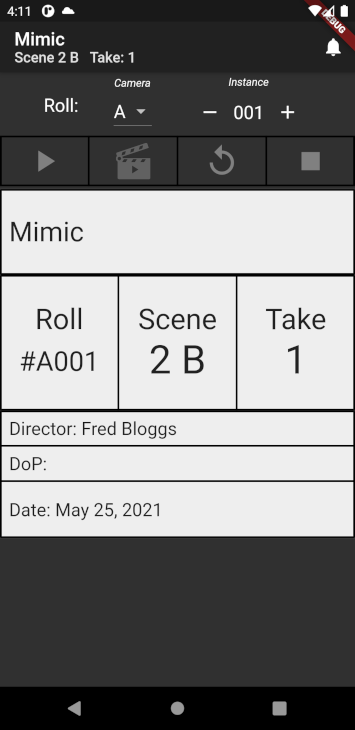
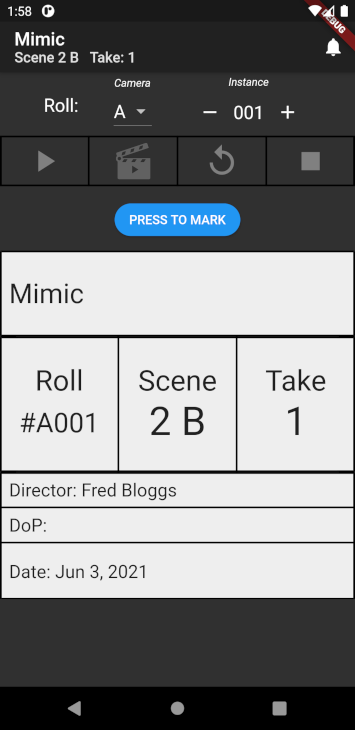
Update the clapperboard images and associated text

Changed region(s): [[0.0, 0.2411, 1.0, 0.8438], [0.031, 0.0, 0.093, 0.0301], [0.1859, 0.0, 0.2169, 0.0301]]

diff --git a/docs/setup.md b/docs/setup.md
@@ -32,11 +32,15 @@ At this stage, the take can be triggered in two ways.
 
 2) The app can be used to both announce the take, and then automatically provide a simulated clapperboard. This is triggered using the second _clapperboard with play_ button.
 
-The following image shows the type of information that will be displayed if the second button is pressed:
+The following image shows the type of information that will be displayed, while the Take is being announced, if the second button is pressed:
 
 ![](/assets/images/takes-clapperboard.png)
 
-Whichever button has been pressed, once Take has been triggered it will eventually (after clapperboard simulation in the second case) start a counter to track the duration of the Take:
+Once the announcement has been completed, the user can press the `PRESS TO MARK` button to trigger the simulated clapperboard:
+
+![](/assets/images/takes-clapperboard-2.png)
+
+Whichever `play` button has been pressed (with or without clapperboard), it will eventually start a counter to track the duration of the Take:
 
 ![](/assets/images/takes-counter.png)
 
